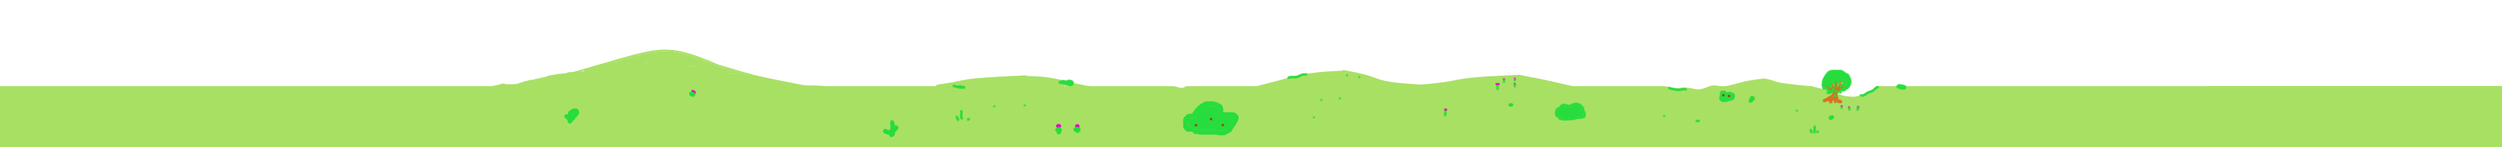
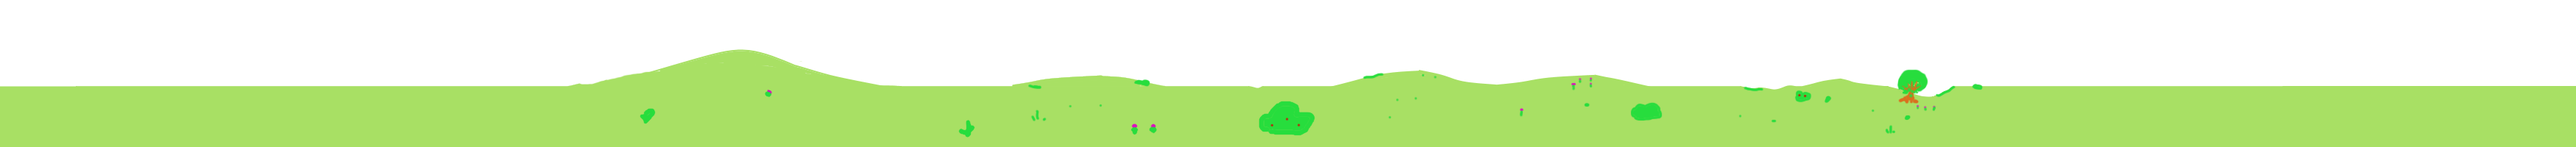
minor bug fixes

diff --git a/data/main.py b/data/main.py
@@ -67,7 +67,7 @@ curBul = 0
 
 # initialize land/obstacles
 landImg = pygame.image.load("data/land.png")
-landX = 10
+landX = 0
 
 # intialize enemies
 enemyImg = pygame.image.load("data/enemy.png")
@@ -174,7 +174,7 @@ while True:
     if landX < -2550:
         landX = -10
 
-    screen.blit(landImg, (landX, disHeight - 160))
+    screen.blit(landImg, (landX, disHeight - 170))
 
 
     # SPAWN ENEMIES
@@ -185,12 +185,12 @@ while True:
             nextEnemy = 0
 
         for i in range(6):
-            colour = screen.get_at((disLength - 10, disHeight - 120 + i * 15))
+            colour = screen.get_at((disLength - 5, disHeight - 110 + i * 10))
             if colour == (167,223,100,255):
-                enemyY[nextEnemy] = disHeight - 175 + i * 15
+                enemyY[nextEnemy] = disHeight - 170 + i * 10
                 break
             else:
-                enemyY[nextEnemy] = disHeight - 90
+                enemyY[nextEnemy] = disHeight - 100
 
         enemyHP[nextEnemy] = maxHP
         enemyX[nextEnemy] = disLength
